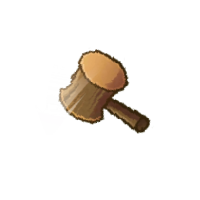
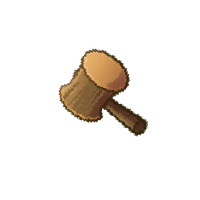
fix: hammer smash animation

Changed region(s): [[0.27, 0.24, 0.75, 0.69]]

diff --git a/src/constants.py b/src/constants.py
@@ -16,7 +16,7 @@ SPRITE_PATHS = (
     + [f"{ASSETS_DIR}/background/tomb_rocks.png"]
     + [f"{ASSETS_DIR}/background/grass.jpg"]
     + [f"{ASSETS_DIR}/hammer/base.png"]
-    + [f"{ASSETS_DIR}/hammer/{img}.png" for img in range(1, 19)]
+    + [f"{ASSETS_DIR}/hammer/{img}.png" for img in range(1, 21)]
 )
 SPRITE_MAP = loadSpriteMap(SPRITE_PATHS)
 
@@ -25,4 +25,4 @@ TOMB_IDX = 24
 TOMB_ROCKS_IDX = 25
 GRASS_IDX = 26
 HAMMER_IDX = 27
-HAMMER_SMASH_ANIMATION_IDXES = list(range(27, 46)) + list(range(45, 26, -1))
+HAMMER_SMASH_ANIMATION_IDXES = list(range(27, 48)) + list(range(47, 26, -1))
